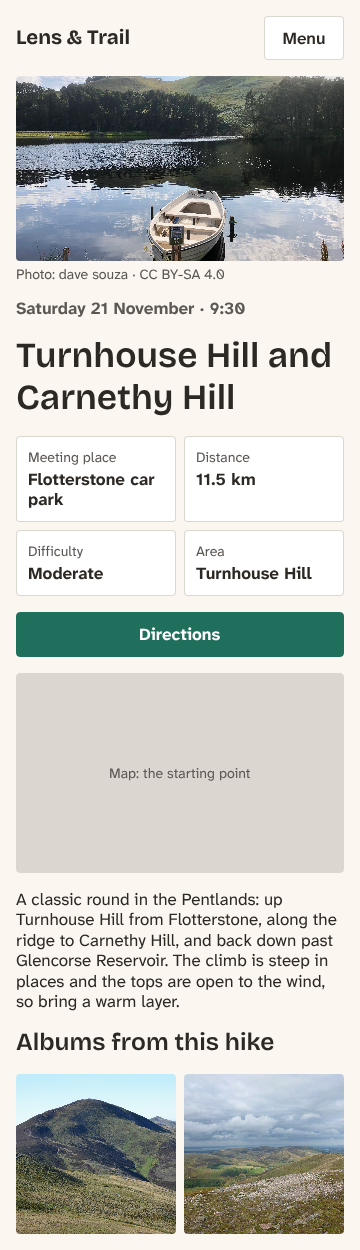
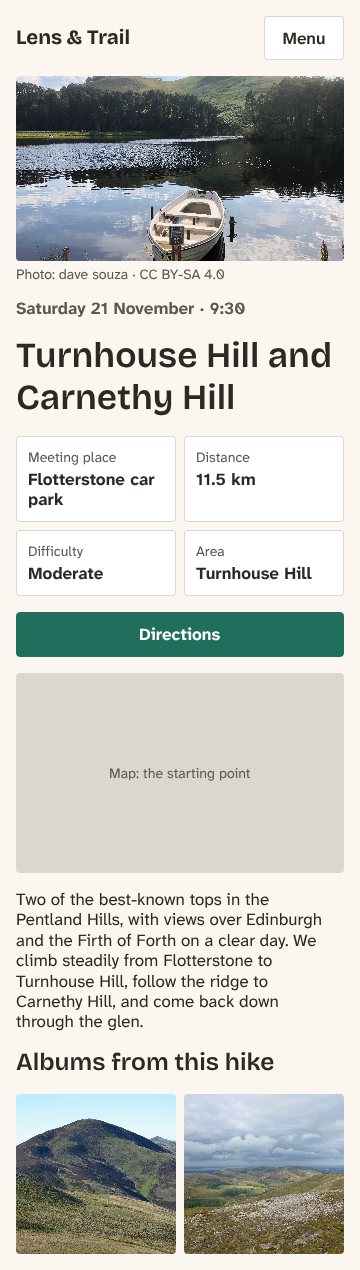
Chapter 4: the other wireframes, header and footer components, and a style tile

diff --git a/PROJECT-LOG.md b/PROJECT-LOG.md
@@ -10,7 +10,7 @@ Read this first when picking the work up in a new session.
 
 - **2026-11-07: the book was started.** Scaffold, research, the test sites (built from Book 1's export) and `OUTLINE.md` (reviewed and accepted by the author) are on `chore/scaffold`; the remote is `github.com/drupalviking/theming-drupal`, and the author pushes. Nothing is drafted.
 - **Chapter 3 drafted** on `feature/chapter-03-design` (2026-11-07), waiting for the author's review: `manuscript/03-designing-lens-and-trail.md`, 16 figures. The author picked palette **B, Old Town sandstone** and font pair **3, Bricolage Grotesque + Atkinson Hyperlegible Next** (options page: https://claude.ai/artifact/PNXN3sTZMCA7yvh3sXqo74). Next, after the review: Chapter 4, *The Design in Penpot*.
-- **Chapter 4 started** on the same branch (the author, 2026-11-08): grilling done, all of Claude's recommendations (see Decisions: Chapter 4). Penpot's MCP is connected (2026-11-08) to the author's file **Lens & Trail** (one page, empty). `code/chapter04/lens-and-trail-tokens.json` is written (generated once from Chapter 3's values; contrast and references checked) and **imported into the file**: 101 tokens in 5 sets, 4 themes, all resolved; a font family, font size and shadow token tested on throwaway shapes (removed). The author's choices (2026-11-08): Penpot's **light** interface for screenshots; the author's name and team may show, the **email is hidden**. The by-hand token steps are screenshotted (`manuscript/images/04-*.png`, 12 so far, in Claude's own Penpot tab). The author merged `feature/chapter-03-design` (with the first Chapter 4 commits); Chapter 4 continues on **`feature/chapter-04-penpot`** (the author said yes, 2026-11-08). The author chose to have it **written as we go**: `manuscript/04-the-design-in-penpot.md` has the opening, the account and file, and the token sections (12 figures); the Try it was checked in Penpot. **Fonts tested on upload**: Penpot takes our variable TTFs as one "Regular" style with no family name, so nothing was uploaded; Penpot's own Google Fonts copies have both fonts (7 weights; no width or optical size axis). The author: **use Penpot's copies** in the design (our files stay for the themes), and **describe sign-up in words** (no sign-up screenshots). The empty "Board" was removed. **The hike card** is built (page *Components*): a component with two variants (Layout: Photo on top, Photo beside), every value a token, checked in dark mode; Book 1's photo of Glencorse Reservoir (dave souza, CC BY-SA 4.0). By hand up to the date line and the component/variant steps, the rest through the MCP (a `%%` note asks to walk it by hand once more). Found: Penpot's number keys set opacity on a selected shape (a warning box in the chapter). **The hike page on a phone** is built (page *Wireframes*, board *Hike page, phone*, 360 wide from the iPhone 12 Mini preset): Key facts in a **grid layout** (2 columns 1fr, rows auto), a **Button** component on *Components* used as an instance (Directions), Book 1's Carnethy Hill photos (Jim Barton, Alan O'Dowd, CC BY-SA 2.0) in the albums; checked in dark mode; chapter Figures 4.23 to 4.27. By hand: the page, board, its layout and tokens, the grid and its rows, dragging the button from Assets; the rest through the MCP. Found: the token right-click menu on a board inside a layout is taller than a laptop screen (Gaps → All cut off); a drop from Assets lands in the board under the pointer; Ctrl+D in a full grid adds a column. The page board has a 2x PNG export setting. **The card's photo credit** goes over the photo's bottom-right corner (the author, 2026-11-08): a `Media` board with the photo and a `Credit` label (white `color.neutral.0` on solid `color.neutral.950`, the same in both modes; Penpot resets a fill's opacity when a color token is applied), on both variants, through the MCP. Next: the other wireframes through the MCP.
+- **Chapter 4 started** on the same branch (the author, 2026-11-08): grilling done, all of Claude's recommendations (see Decisions: Chapter 4). Penpot's MCP is connected (2026-11-08) to the author's file **Lens & Trail** (one page, empty). `code/chapter04/lens-and-trail-tokens.json` is written (generated once from Chapter 3's values; contrast and references checked) and **imported into the file**: 101 tokens in 5 sets, 4 themes, all resolved; a font family, font size and shadow token tested on throwaway shapes (removed). The author's choices (2026-11-08): Penpot's **light** interface for screenshots; the author's name and team may show, the **email is hidden**. The by-hand token steps are screenshotted (`manuscript/images/04-*.png`, 12 so far, in Claude's own Penpot tab). The author merged `feature/chapter-03-design` (with the first Chapter 4 commits); Chapter 4 continues on **`feature/chapter-04-penpot`** (the author said yes, 2026-11-08). The author chose to have it **written as we go**: `manuscript/04-the-design-in-penpot.md` has the opening, the account and file, and the token sections (12 figures); the Try it was checked in Penpot. **Fonts tested on upload**: Penpot takes our variable TTFs as one "Regular" style with no family name, so nothing was uploaded; Penpot's own Google Fonts copies have both fonts (7 weights; no width or optical size axis). The author: **use Penpot's copies** in the design (our files stay for the themes), and **describe sign-up in words** (no sign-up screenshots). The empty "Board" was removed. **The hike card** is built (page *Components*): a component with two variants (Layout: Photo on top, Photo beside), every value a token, checked in dark mode; Book 1's photo of Glencorse Reservoir (dave souza, CC BY-SA 4.0). By hand up to the date line and the component/variant steps, the rest through the MCP (a `%%` note asks to walk it by hand once more). Found: Penpot's number keys set opacity on a selected shape (a warning box in the chapter). **The hike page on a phone** is built (page *Wireframes*, board *Hike page, phone*, 360 wide from the iPhone 12 Mini preset): Key facts in a **grid layout** (2 columns 1fr, rows auto), a **Button** component on *Components* used as an instance (Directions), Book 1's Carnethy Hill photos (Jim Barton, Alan O'Dowd, CC BY-SA 2.0) in the albums; checked in dark mode; chapter Figures 4.23 to 4.27. By hand: the page, board, its layout and tokens, the grid and its rows, dragging the button from Assets; the rest through the MCP. Found: the token right-click menu on a board inside a layout is taller than a laptop screen (Gaps → All cut off); a drop from Assets lands in the board under the pointer; Ctrl+D in a full grid adds a column. The page board has a 2x PNG export setting. **The card's photo credit** goes over the photo's bottom-right corner (the author, 2026-11-08): a `Media` board with the photo and a `Credit` label (white `color.neutral.0` on solid `color.neutral.950`, the same in both modes; Penpot resets a fill's opacity when a color token is applied), on both variants, through the MCP. **The other wireframes** are built through the MCP (2026-11-08): on *Wireframes*, the hike page wide and in Spanish (phone), the front page, the hikes list (360, 800, 1280), the album and its lightbox, the menu open (360, 800) and the mega menu (1280), and the 404 (360, 1280); on *Components*, **Header** and **Footer** components (Phone and Wide each); a *Style tile* page (one board, exported in Light and Dark). Book 1's real texts and Spanish labels; Book 1's photos with their credits (North Berwick has none: a grey box). All in colour with the tokens, not grey (Chapter 3 said grey wireframes; the author to confirm). Exported as PNG at 1x to `design/wireframes/` (19 files, 11 MB). Found: Penpot's SVG export links its fonts and images to design.penpot.app, so it doesn't work offline (the SVGs aren't in the repository yet); the plugin tab goes to sleep after a minute or two in the background (a click on the tab wakes it); a full grid adds a column on Ctrl+D. The Spanish date takes two lines on a phone. Chapter Figures 4.28 to 4.33. Next: export `design/tokens.json` and `design/lens-and-trail.penpot` from Penpot (downloads: ask the author), then the closing sections.
 - **The folder** is still `themeing-drupal`. It will be renamed to `theming-drupal` (the author, 2026-11-07); do it outside a Claude session that has it as its working directory.
 - **The test sites** (DDEV, outside this repository), built by `tools/setup.sh` from Book 1's export at the commit in `data/book1.yml` (2026-11-07: `223b3ca`, on Book 1's `chore/export-site-recipe`, not merged yet):
   - `~/websites/open-university/lens-and-trail-theme`: Book 1's core site (Drupal 12.0.0-beta2, Olivero). `https://lens-and-trail-theme.ddev.site:8443`, `admin` / `12345`.

diff --git a/manuscript/04-the-design-in-penpot.md b/manuscript/04-the-design-in-penpot.md
@@ -6,7 +6,7 @@ This chapter puts the design into **Penpot**, a free and open source design tool
 
 You don't need to have used a design tool before. We hadn't used Penpot either when we started this chapter, and we'll go slowly, one click at a time. Nothing in this chapter changes the two sites: they still run Olivero and Mercury, as Book 1 left them. The next chapter generates the themes, and the tokens from this chapter are where their colors and sizes come from.
 
-%% Author: written as we go (2026-11-08). Done so far: the file, the tokens, the fonts, the hike card and the hike page on a phone. Still to come: the other wireframes, exporting, getting the design without Penpot, the Using Figma? box, Summary, Exercises, Want to know more. %%
+%% Author: written as we go (2026-11-08). Done so far: the file, the tokens, the fonts, the hike card, the hike page on a phone, the other wireframes and the style tile. Still to come: exporting, getting the design without Penpot, the Using Figma? box, Summary, Exercises, Want to know more. %%
 
 ## Penpot
 
@@ -382,4 +382,49 @@ The map stays a grey box: it's a placeholder for something the theme builds late
 
 %% Author: done by hand in Penpot, as written: the Wireframes page, the board from the iPhone 12 Mini preset, its layout, fill, padding and gap, the Key facts board with its grid layout, row gap and auto rows, and dragging the button from Assets. Done through the MCP server with the same tokens: the column gap of Key facts (the token menu was too tall for the screen: its top, with Gaps → All, was cut off; check how a reader on a laptop gets to it), the four facts, the Button main component, and the rest of the page. Checked by hand: Ctrl+D in a full grid adds a third column; Ctrl+D into an empty cell wasn't tried (the grid was already full). Figures 4.26 and 4.27 are exported at 1x (360 pixels wide) and could use a 2x export for print. The card's photo credit is built through the MCP (a Media board with the photo and an absolutely placed Credit board, constraints right and bottom); its steps weren't clicked by hand, and Figures 4.18 to 4.20 were taken before it was added. %%
 
-%% Author: next sections (to come): the other wireframes, exporting `design/tokens.json` and the Penpot file. %%
+## The other wireframes
+
+The card, the button and the hike page are everything Penpot asks of you: boards, layouts, tokens, components and their copies. The rest of the club's pages are made from the same parts, so we won't go through them click by click. They're all in the file, on the `Wireframes` page, and as pictures in the book's `design/wireframes/` folder:
+
+| Page | Widths | What it decides |
+|---|---|---|
+| Hike page | 360, 1280, and 360 in Spanish | The facts and the button first on a phone; beside the photo on a wide screen |
+| Front page | 360, 1280 | The hero slider, the next three hikes, the newest photos, Join the club |
+| Hikes list | 360, 800, 1280 | The Difficulty filter, and the cards in one column, then with the photo beside, then three in a row |
+| Album, and its lightbox | 360, 1280 | Square photos in a grid; one photo on a dark background, with its credit |
+| Menu | 360 and 800 (open), 1280 (the mega menu) | The menu button and its panel; the Hikes panel on a wide screen |
+| 404 | 360, 1280 | A friendly way back to the hikes |
+
+Two more components came out of them, on the `Components` page: the **Header** and the **Footer**, each in a phone and a wide version (`Header / Phone` and `Header / Wide`: a slash in a component's name puts it in a group in the Assets tab). Every page uses copies of them, so the menu is drawn once.
+
+![The front page at 1280 pixels: the header with the logo and the menu, a wide hero photo darkened on the left with Next hike, the date, Turnhouse Hill and Carnethy Hill and a See the hike button, round pause, previous and next buttons and three dots; then Next hikes as three cards, Newest photos as six photos in three columns, a sandstone Join the club box with a How to join button, and the footer](images/04-front-page-wide.png)
+*Figure 4.28: The front page on a wide screen.*
+
+The hikes list at 800 pixels is there for one reason: the cards. At 800 pixels the list still has one card in a row (three in a row only come at 64 rem, 1024 pixels), and each card's container is 768 pixels wide, more than the 30 rem (480 pixels) from Chapter 3, so the card uses its **Photo beside** variant. That's a container query, decided in the design: the card asks how much room it has, not how wide the window is.
+
+![The hikes list at 800 pixels: Upcoming hikes, a Difficulty filter with an Apply button, and four hike cards in one column, each with its photo on the left and its text on the right](images/04-hikes-list-800.png)
+*Figure 4.29: At 800 pixels, one column of cards, with their photos beside the text.*
+
+The Spanish hike page is a copy of the English one with Book 1's Spanish texts in it, and it found the first thing the design has to make room for: Drupal's Spanish date (*sábado, 21 de noviembre de 2026, a las 09:30*, Book 1's format) takes two lines on a phone where the English one takes one, and *Estacionamiento de Flotterstone* wraps in its box. Both still fit, which is the point of checking.
+
+![The hike page in Spanish at 360 pixels: Menú, the photo with Foto: dave souza, the date sábado, 21 de noviembre de 2026, a las 09:30 on two lines, the title Turnhouse Hill y Carnethy Hill, the facts Punto de encuentro, Distancia, Dificultad and Zona, a Cómo llegar button, the map, the description and Álbumes de esta excursión](images/04-hike-page-phone-es.png)
+*Figure 4.30: The hike page in Spanish. The date needs two lines.*
+
+![The mega menu at 1280 pixels: under the header, a white panel with a soft shadow and three columns: Areas (Pentland Hills, Arthur's Seat, East Lothian, Edinburgh), Next hikes with two hikes and the links All upcoming hikes and Hike archive, and a photo of the Pentlands in winter with its credit](images/04-mega-menu-wide.png)
+*Figure 4.31: The Hikes mega menu. It uses the `shadow.overlay` token: it floats above the page.*
+
+### A style tile
+
+A **style tile** is one board with the design's parts side by side, without a page around them: the colors, the type, the buttons, badges and the card, and the spacing. It's the page a developer keeps open while writing CSS. The club's is on a page of its own, `Style tile`.
+
+There's one style tile, not two. Tokens follow the theme that's active for the whole file, so the dark style tile is the same board, exported with **Dark** chosen in the Themes menu.
+
+![The style tile in light mode: the logo and Lens & Trail, eleven color swatches from background to on-tint, the type samples Photos and hikes around Edinburgh and ¿Quién se apunta a la excursión?, body text, a credit and a link, a Join the club button, a Menu button, four badges, a focused button with its outline, a hike card with the photo beside, and the spacing scale as bars](images/04-style-tile-light.png)
+*Figure 4.32: The style tile, Light.*
+
+![The same style tile in dark mode: near-black background, light text, a light green button with dark text, dark sandstone badges, and the card on a dark raised surface](images/04-style-tile-dark.png)
+*Figure 4.33: The same board, Dark.*
+
+%% Author: the other wireframes, the Header and Footer components and the style tile were built through Penpot's MCP server (2026-11-08), with the same tokens and components, and exported as PNG at 1x into `design/wireframes/` (19 files, 11 MB). Choices to check: the content on them (teasers of the other hikes, the footer's "Meet us" heading, the 404's wording "You're a little off the trail", the dark mode toggle as Light · Dark · Auto in the menu and a round button with a placeholder circle in the wide header, the language switcher as "English · Español"); North Berwick has no photo in Book 1, so its card shows a grey box; the focus outline on the style tile has no 2-pixel gap (`size.focus-offset`) yet. Figure 4.27 (dark phone page) was taken before the description changed to Book 1's real text; retake it with the other figures. %%
+
+%% Author: next sections (to come): exporting `design/tokens.json` and the Penpot file, getting the design without Penpot, the Using Figma? box, Summary, Exercises, Want to know more. %%

diff --git a/book/04-the-design-in-penpot.md b/book/04-the-design-in-penpot.md
@@ -452,3 +452,46 @@ The map stays a grey box: it's a placeholder for something the theme builds late
 
 ![The same hike page in dark mode: a near-black page, light text, dark raised boxes for the facts, a light green Directions button with dark text, and a dark grey map](images/04-hike-page-phone-dark.png)
 *Figure 4.27: The hike page with the Dark theme.*
+
+## The other wireframes
+
+The card, the button and the hike page are everything Penpot asks of you: boards, layouts, tokens, components and their copies. The rest of the club's pages are made from the same parts, so we won't go through them click by click. They're all in the file, on the `Wireframes` page, and as pictures in the book's `design/wireframes/` folder:
+
+| Page | Widths | What it decides |
+|---|---|---|
+| Hike page | 360, 1280, and 360 in Spanish | The facts and the button first on a phone; beside the photo on a wide screen |
+| Front page | 360, 1280 | The hero slider, the next three hikes, the newest photos, Join the club |
+| Hikes list | 360, 800, 1280 | The Difficulty filter, and the cards in one column, then with the photo beside, then three in a row |
+| Album, and its lightbox | 360, 1280 | Square photos in a grid; one photo on a dark background, with its credit |
+| Menu | 360 and 800 (open), 1280 (the mega menu) | The menu button and its panel; the Hikes panel on a wide screen |
+| 404 | 360, 1280 | A friendly way back to the hikes |
+
+Two more components came out of them, on the `Components` page: the **Header** and the **Footer**, each in a phone and a wide version (`Header / Phone` and `Header / Wide`: a slash in a component's name puts it in a group in the Assets tab). Every page uses copies of them, so the menu is drawn once.
+
+![The front page at 1280 pixels: the header with the logo and the menu, a wide hero photo darkened on the left with Next hike, the date, Turnhouse Hill and Carnethy Hill and a See the hike button, round pause, previous and next buttons and three dots; then Next hikes as three cards, Newest photos as six photos in three columns, a sandstone Join the club box with a How to join button, and the footer](images/04-front-page-wide.png)
+*Figure 4.28: The front page on a wide screen.*
+
+The hikes list at 800 pixels is there for one reason: the cards. At 800 pixels the list still has one card in a row (three in a row only come at 64 rem, 1024 pixels), and each card's container is 768 pixels wide, more than the 30 rem (480 pixels) from Chapter 3, so the card uses its **Photo beside** variant. That's a container query, decided in the design: the card asks how much room it has, not how wide the window is.
+
+![The hikes list at 800 pixels: Upcoming hikes, a Difficulty filter with an Apply button, and four hike cards in one column, each with its photo on the left and its text on the right](images/04-hikes-list-800.png)
+*Figure 4.29: At 800 pixels, one column of cards, with their photos beside the text.*
+
+The Spanish hike page is a copy of the English one with Book 1's Spanish texts in it, and it found the first thing the design has to make room for: Drupal's Spanish date (*sábado, 21 de noviembre de 2026, a las 09:30*, Book 1's format) takes two lines on a phone where the English one takes one, and *Estacionamiento de Flotterstone* wraps in its box. Both still fit, which is the point of checking.
+
+![The hike page in Spanish at 360 pixels: Menú, the photo with Foto: dave souza, the date sábado, 21 de noviembre de 2026, a las 09:30 on two lines, the title Turnhouse Hill y Carnethy Hill, the facts Punto de encuentro, Distancia, Dificultad and Zona, a Cómo llegar button, the map, the description and Álbumes de esta excursión](images/04-hike-page-phone-es.png)
+*Figure 4.30: The hike page in Spanish. The date needs two lines.*
+
+![The mega menu at 1280 pixels: under the header, a white panel with a soft shadow and three columns: Areas (Pentland Hills, Arthur's Seat, East Lothian, Edinburgh), Next hikes with two hikes and the links All upcoming hikes and Hike archive, and a photo of the Pentlands in winter with its credit](images/04-mega-menu-wide.png)
+*Figure 4.31: The Hikes mega menu. It uses the `shadow.overlay` token: it floats above the page.*
+
+### A style tile
+
+A **style tile** is one board with the design's parts side by side, without a page around them: the colors, the type, the buttons, badges and the card, and the spacing. It's the page a developer keeps open while writing CSS. The club's is on a page of its own, `Style tile`.
+
+There's one style tile, not two. Tokens follow the theme that's active for the whole file, so the dark style tile is the same board, exported with **Dark** chosen in the Themes menu.
+
+![The style tile in light mode: the logo and Lens & Trail, eleven color swatches from background to on-tint, the type samples Photos and hikes around Edinburgh and ¿Quién se apunta a la excursión?, body text, a credit and a link, a Join the club button, a Menu button, four badges, a focused button with its outline, a hike card with the photo beside, and the spacing scale as bars](images/04-style-tile-light.png)
+*Figure 4.32: The style tile, Light.*
+
+![The same style tile in dark mode: near-black background, light text, a light green button with dark text, dark sandstone badges, and the card on a dark raised surface](images/04-style-tile-dark.png)
+*Figure 4.33: The same board, Dark.*
